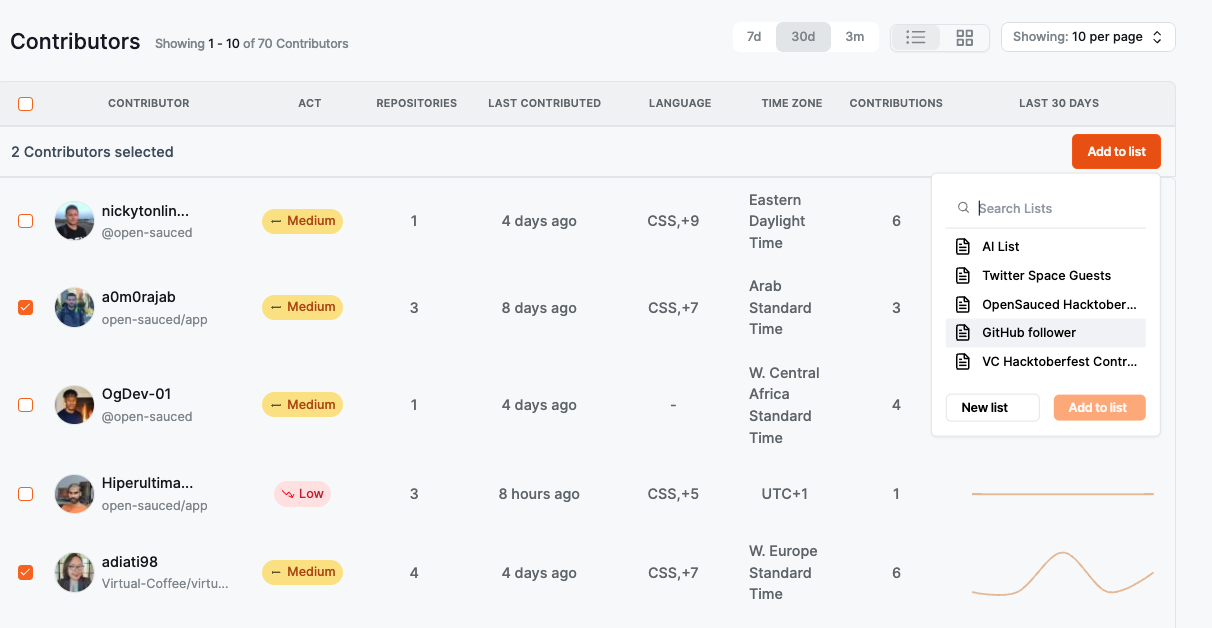
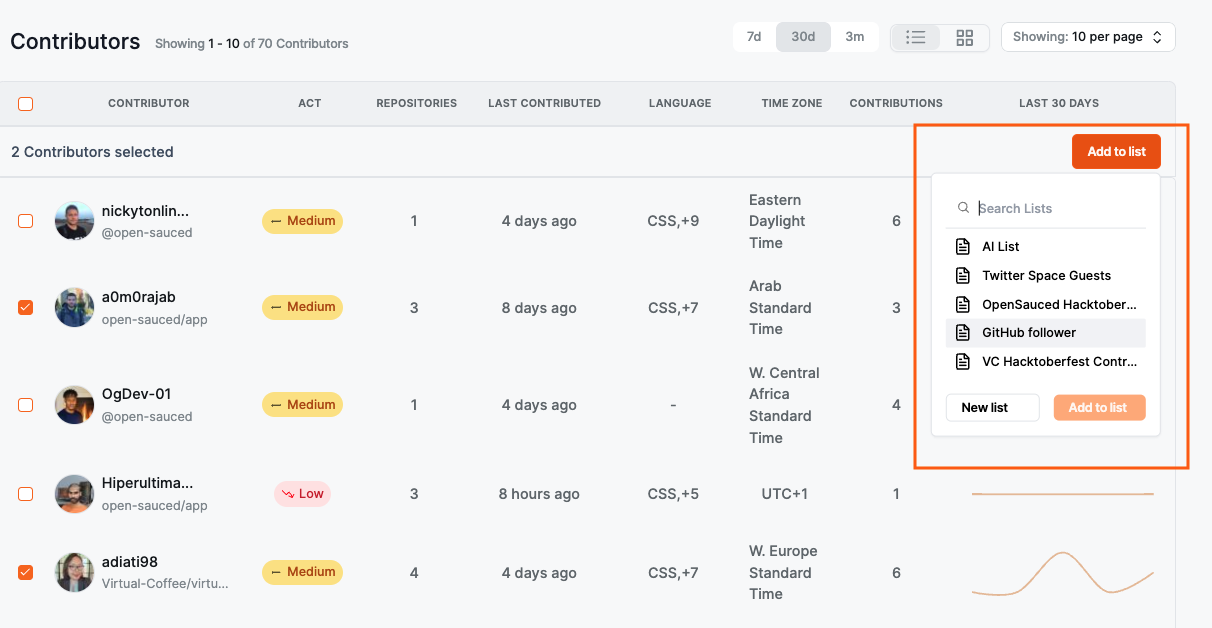
Add lists section of guide

Changed region(s): [[0.7327, 0.1815, 1.0, 0.7564]]

diff --git a/docs/maintainers/maintainers-guide.md b/docs/maintainers/maintainers-guide.md
@@ -53,3 +53,54 @@ The contributors tab allows you to view more detailed information on each of the
 
 To learn more about your contributors, you can select them and add them to a list. 
 
+![contributors insight list](../../static/img/contributors-insights.png)
+
+There are two ways to add contributors to a list:
+1. Create a new list with selected contributors.
+2. Add selected contributors to an existing list.
+
+## Lists: Connecting with Contributors
+OpenSauced Lists feature allows you to categorize, monitor, and analyze various groups of contributors. You can use lists to track the contributions of a specific team, a specific repository, or group of repositories. This feature offers granular insights into each contributor's activities and contributions, helping maintainers to track individual contribution histories, identify active engagement, recognize new or alumni contributors, and compare the performance of different contributors.
+
+The Lists features allow you to:
+- track the commits and PRs of the contributors on your list
+- filter your contributors by their activity level, including most active, new, and alumni
+- view the the repositories that your contributors have contributed to, the languages they've used for their contributions, and their time zones.
+
+### Why Create a List?
+There are many reasons to create a list, but here's some inspiration to get you started:
+- **Interacting Contributors**: Keep tabs on contributors actively interacting with your repository.
+- **Organization's Developers**: Monitor the contributions and performance of your internal team.
+- **VIP Contributors**: Highlight and track at least 5 developers who are key maintainers or significant contributors.
+- **Sales Leads**: Identify contributors whose engagement could potentially be turned into sales opportunities.
+- **Potential Hires**: Observe contributors who exhibit skill and commitment, making them prime candidates for hiring.
+- **Alumni Contributors**: Keep an eye on contributors who have decreased their engagement or left the project.
+
+### Creating a New List
+1. To create a new list, click the "Lists" tab on the Insights' hub. You will be redirected to a page where you can create your new list.
+2. Click on the 'New List' button to start a new list.
+3. Give your list a name.
+4. Choose your page visibility. You can choose to make your list public or private.
+4. Add contributors to your list by searching for their GitHub username, syncing your GitHub Team, or by importing your GitHub Following. 
+
+![team sync gif](../../static/img/team-sync.gif)
+
+## Using Your List
+Once you have created your list, you will be redirected to your list page. Here you will see a dashboard with an overview  of the repositories and the contributors who have contributed to them. 
+
+There are three tabs that provide you with more information on these repositories.
+
+### Overview
+The Overview view gives you a high-level view of the contibutors in your list, including the total number of commits in the last 30 days and the types of contributors on your list: active, new, and alumni.
+
+### Activity
+The Activity tab gives you a graph view with more detailed information on each of the contributors, including type of activity, repositories they've contributed to, and how they compare to each other. 
+
+You can filter your list by all contributors, active contributors, new contributors, and alumni contributors.
+
+![list graph](../../static/img/list-graph.png)
+
+### Contributors
+The contributors view, gives you the list of the contributors and includes information like activity level, last repository contributed to, the date of their last contribution, time zone, programming languages used, and number of contributions.
+
+ To learn more about these features, see [Understanding Lists Data](#understanding-lists-data).
